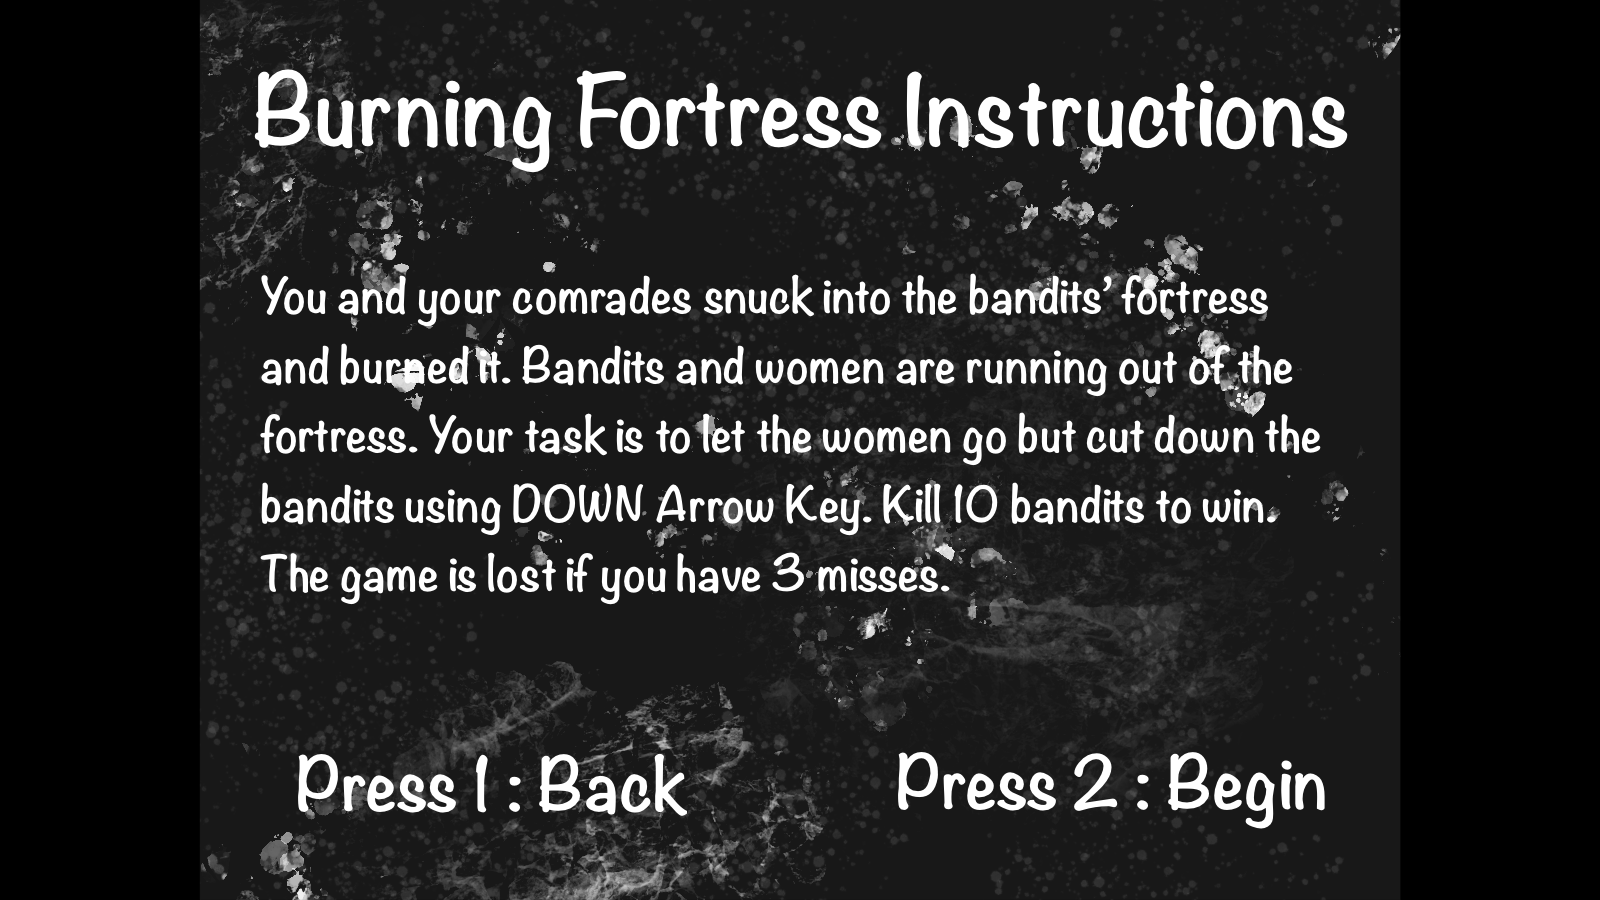
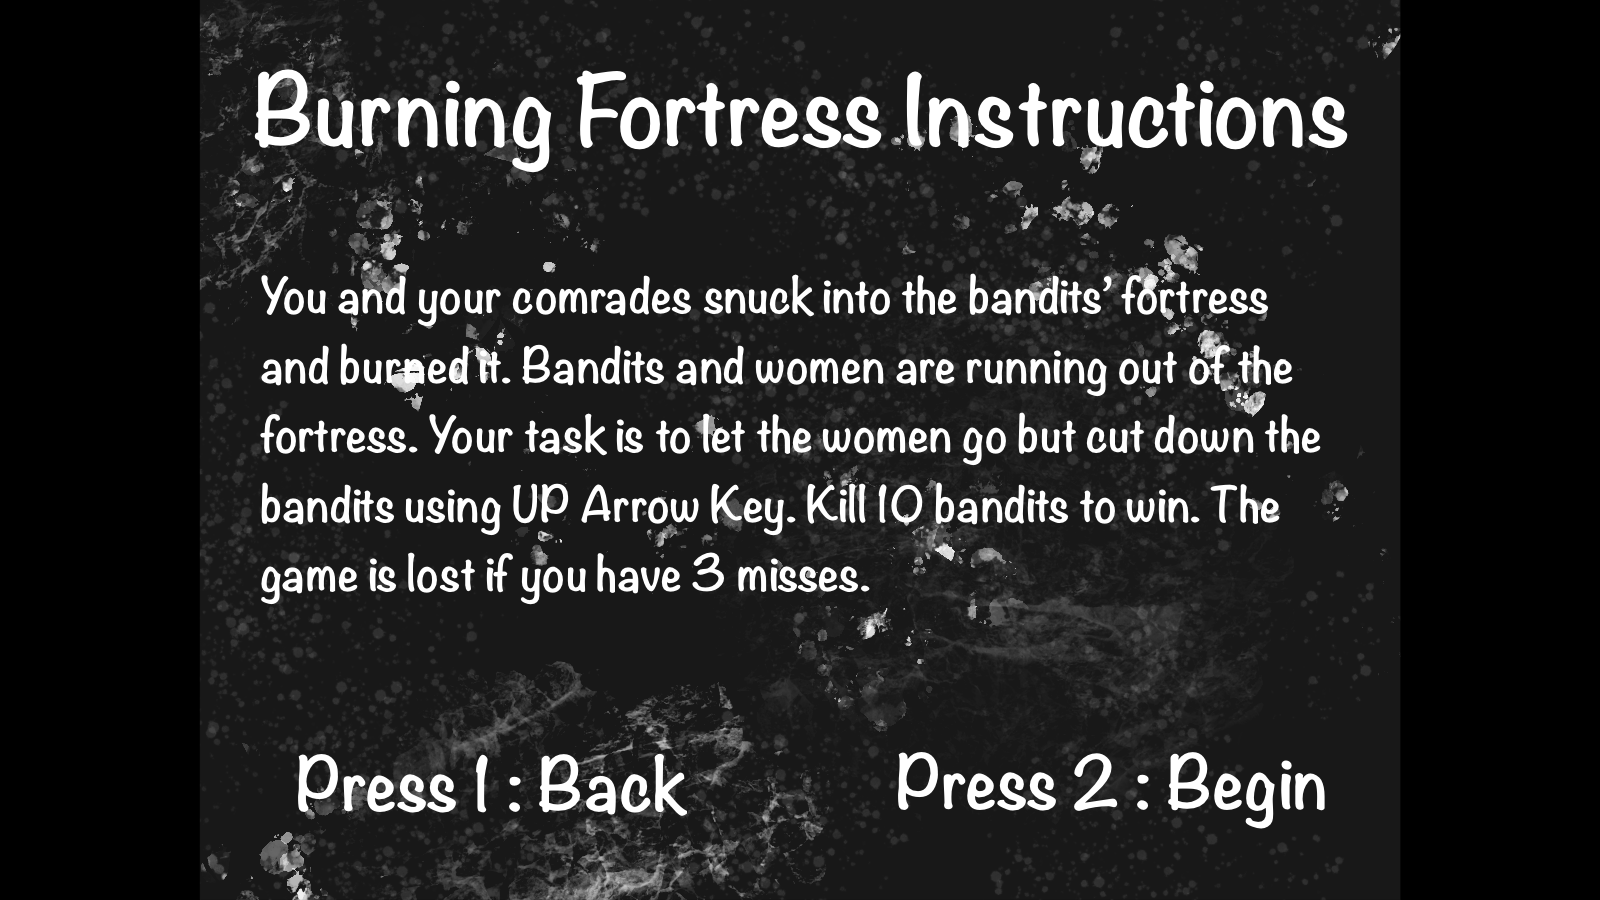
Added comments to scene 3 code
Made sure that my code is organized and the TA knows what's going on. Also corrected the Burning Fortress scene instructions.

Changed region(s): [[0.1562, 0.5289, 0.8125, 0.6844]]

diff --git a/src/scenes/Bandits.js b/src/scenes/Bandits.js
@@ -16,7 +16,7 @@ class Bandits extends Phaser.Scene {
         // set up Phaser-provided cursor key input
         cursors = this.input.keyboard.createCursorKeys();
 
-        // Display Score
+        // Display Bandits remaining, misses, and the keys to press
         this.banditsRemaining = 20;
         this.misses = 0
 
@@ -70,19 +70,11 @@ class Bandits extends Phaser.Scene {
         this.missesDisplay = this.add.text(16, 128, "Misses : " + this.misses + " / 5", missConfig).setDepth(5);
         
         this.pressKey = this.add.text(16, 192, "Press: ", pressConfig).setDepth(5);
-
-        // Display UI
-        // this.RoundWon = this.physics.add.sprite(800, 450, 'RoundWon').setAlpha(0);
-        // this.readyUI = this.physics.add.sprite(800, 450, 'ReadyUI').setAlpha(0);
-        // this.duelUI = this.physics.add.sprite(800, 450, 'DuelUI').setAlpha(0);
         
 
         // Background sound
         this.bgm = this.sound.add('Scene3BackgroundSFX', {volume: 1, loop : true});
         this.bgm.play();
-
-        //SFX
-        // this.ReadySFX = this.sound.add('ReadySFX', {volume: 0.5, loop : false});
 
         // Phases
         this.prepare = true;
@@ -113,7 +105,7 @@ class Bandits extends Phaser.Scene {
     }
 
     update() {
-        if (!this.restarted) {
+        if (!this.restarted) { // Allow the player to restart the scene or quit to main menu
             this.GameOver();
             this.restarted = true;
         }
@@ -149,35 +141,32 @@ class Bandits extends Phaser.Scene {
             }
 
             if (!this.defeat) {
-                if (!this.keyPressed) {
+                if (!this.keyPressed) { // Ensures that holding down a key doesn't input it multiple times.
                     // Checks if the correct keys are being pressed.
                     this.CheckKeyPress();
                 }
                 this.ResetKeyPress();
             }
-            // Ensures that holding down a key doesn't input it multiple times.
-
-            console.log(this.hasPressed);
-
-            if (this.bandit.x < 100 && this.victory) {
+            
+            if (this.bandit.x < 100 && this.victory) { // Silce animation when player inputs keys correctly
                 this.readyStance.setAlpha(0);
                 this.duelStance.setAlpha(1);
                 this.killBandit();
             }
 
-            if (this.bandit.x < -500 && this.isPass && !this.keyPressed && !this.hasPressed) {
+            if (this.bandit.x < -500 && this.isPass && !this.keyPressed && !this.hasPressed) { // Bandit dies in the village if player lets it pass
                 this.killBandit();
                 this.banditsRemaining--;
                 this.banditsLeftDisplay.text = "Bandits Remaining : " + this.banditsRemaining;
             }
             
-            if (this.bandit.x < -500 && this.isPass && this.hasPressed) {
+            if (this.bandit.x < -500 && this.isPass && this.hasPressed) { // Miss if the player tries to kill the bandit when they're supposed to let it pass.
                 this.killBandit();
                 this.misses++;
                 this.missesDisplay.text = "Misses : " + this.misses + " / 5";
             }
 
-            if (this.bandit.x < -500 && this.isAttack) {
+            if (this.bandit.x < -500 && this.isAttack) { // Miss if the player doesn't press all the keys on time
                 this.killBandit();
                 this.misses++;
                 this.missesDisplay.text = "Misses : " + this.misses + " / 5";
@@ -186,16 +175,16 @@ class Bandits extends Phaser.Scene {
 
         // Check for victory or defeat
         else { 
-            // Ensures that that the game doesn't go pass 7 rounds.
+            // Ensures that that the game doesn't go pass 5 misses or less than 1 bandit left remaining
             if (this.banditsRemaining > -1 && this.misses < 5) {
                 this.fight = true; 
                 this.prepare = true;
 
-            } else if (this.banditsRemaining < 1) { // If the player wins all 7 rounds, they win the game
+            } else if (this.banditsRemaining < 1) { // If the player kills all bandits, victory
                 this.bgm.stop();
                 this.scene.stop('banditScene');
                 this.scene.start('banditVictoryScene');
-            } else if (this.misses > 4) { 
+            } else if (this.misses > 4) {  // If the playing misses 5 times, defeat
                 this.bgm.stop();
                 this.scene.stop('banditScene');
                 this.scene.start('banditDefeatScene');
@@ -204,7 +193,7 @@ class Bandits extends Phaser.Scene {
         }
     }
 
-    killBandit() {
+    killBandit() { // function to destroy bandit and move onto the next phase
         this.bandit.destroy();
         this.AttackorPassUI.destroy();
         this.fight = false;
@@ -212,7 +201,7 @@ class Bandits extends Phaser.Scene {
         this.isPass = false;
     }
 
-    AttackOrPass() { // A bandit or a woman is randomly generated
+    AttackOrPass() { // Randomly tell the player if they should let the bandit pass or kill it
         this.AttackOrPassRandom = Math.floor(Math.random() * 2);
         if (this.AttackOrPassRandom === 0) {
             this.AttackorPassUI = this.physics.add.sprite(800, 450, 'AttackUI').setDepth(5);
@@ -318,9 +307,7 @@ class Bandits extends Phaser.Scene {
           this.keyPressed = false;
     }
 
-    // Victory/Defeat Condition
-
-    GameOver() {
+    GameOver() { // Victory/Defeat Condition
         this.input.keyboard.on('keydown', (event) => {
             //console.log(event);
             switch(event.key) {
